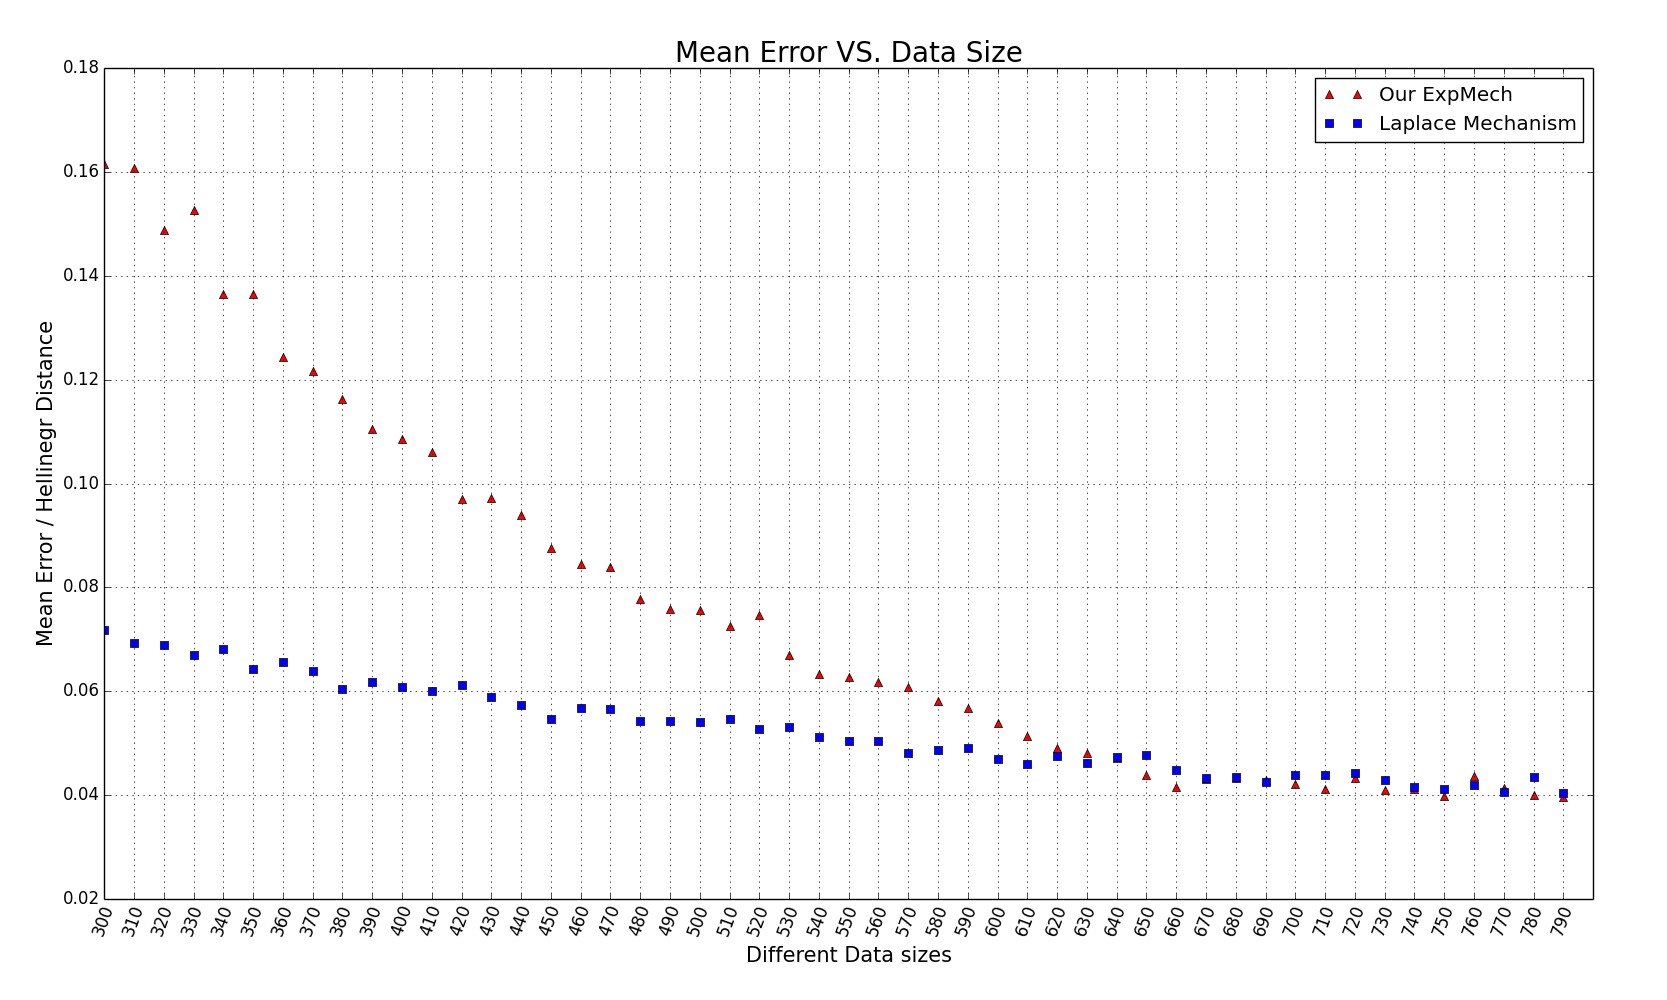
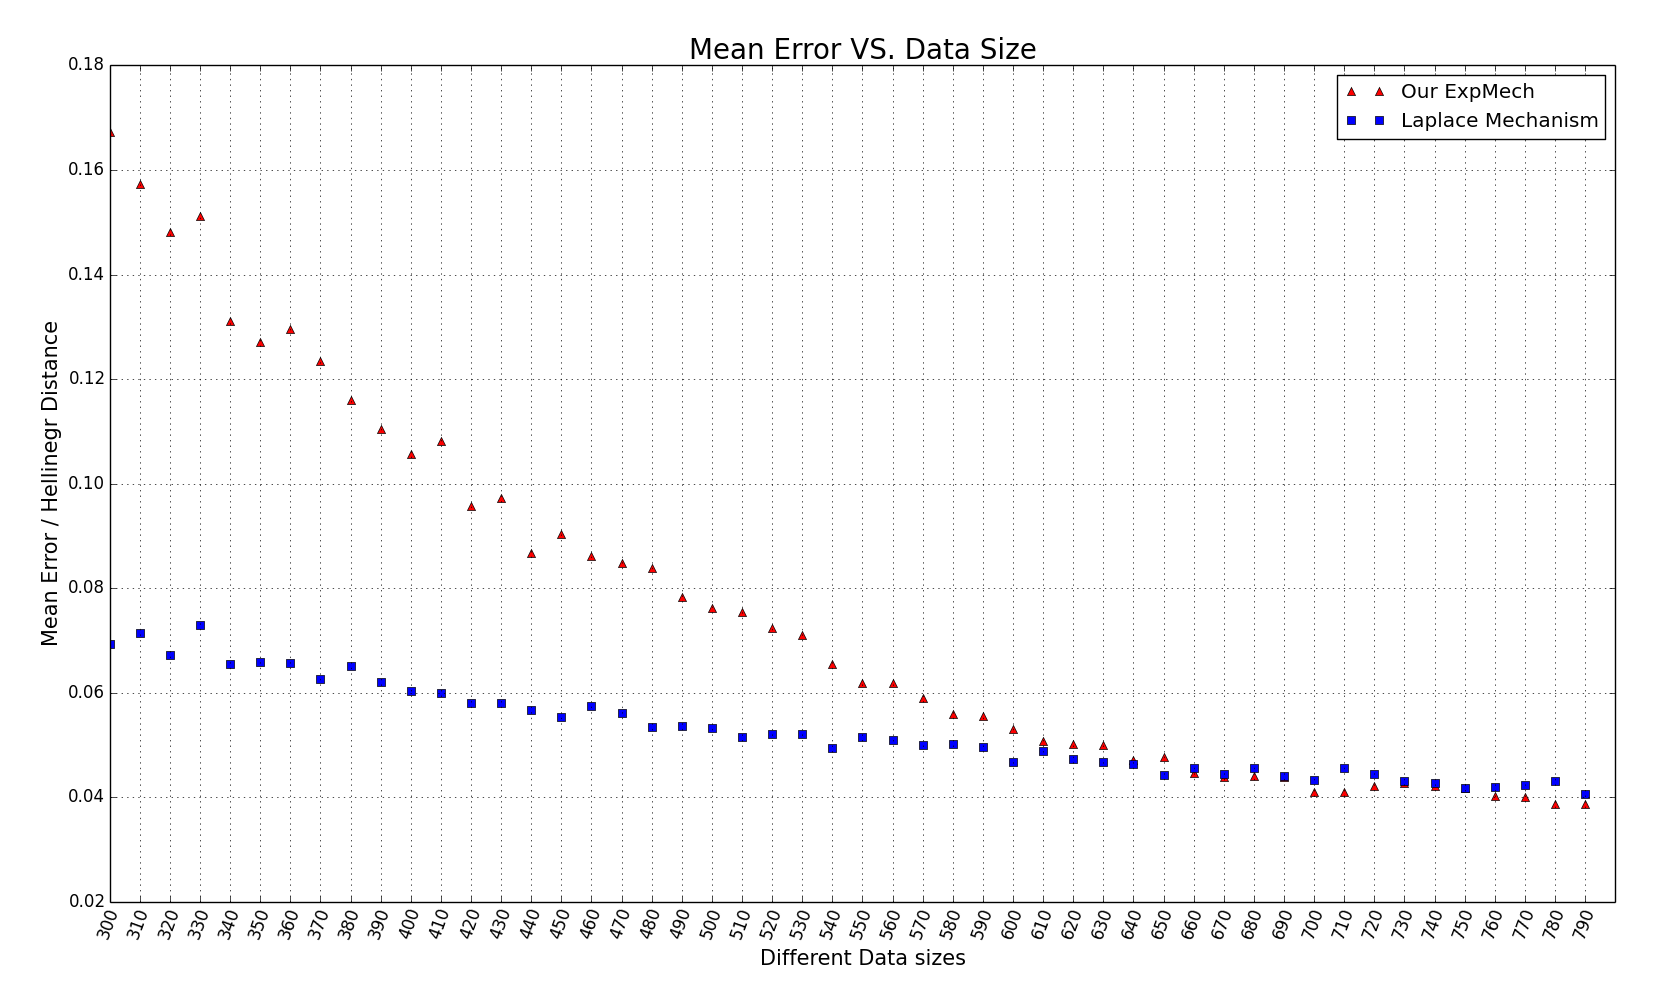
update figures

diff --git a/dp_bayesian_inference_model_with_dirichlet_prior_epsilon_study.py b/dp_bayesian_inference_model_with_dirichlet_prior_epsilon_study.py
@@ -412,7 +412,7 @@ class BayesInferwithDirPrior(object):
 
 	def _laplace_noize_n(self):
 
-		self._laplaced_posterior = Dir([alpha + math.floor(numpy.random.laplace(0, 2.0/self._epsilon)) for alpha in self._posterior._alphas])
+		self._laplaced_posterior = Dir([alpha + math.floor(numpy.random.laplace(0, 1.0/self._epsilon)) for alpha in self._posterior._alphas])
 
 	def _laplace_noize_navie(self):
 		t = numpy.random.laplace(0, 1.0/self._epsilon)
@@ -884,7 +884,7 @@ def accuracy_VS_datasize(epsilon,delta,prior,observations,datasizes):
 	for observation in observations:
 		Bayesian_Model = BayesInferwithDirPrior(prior, sum(observation), epsilon, delta)
 		Bayesian_Model._set_observation(observation)
-		Bayesian_Model._experiments(2000)
+		Bayesian_Model._experiments(10000)
 		data.append(Bayesian_Model._accuracy[Bayesian_Model._keys[3]])
 		data.append(Bayesian_Model._accuracy[Bayesian_Model._keys[0]])
 		mean_error[0].append(Bayesian_Model._accuracy_mean[Bayesian_Model._keys[3]])
@@ -1051,11 +1051,11 @@ if __name__ == "__main__":
 	x2 = [2,18]
 	observation = [5,5,5]
 	epsilons = numpy.arange(0.1, 2, 0.1)
-	datasizes = [i*100 for i in range(30,80)]#[300] #[8,12,18,24,30,36,42,44,46,48]#,50,52,54,56,58,60,62,64,66,68,70,72,74,76,78,80]
-	percentage = [0.5,0.5]
+	datasizes = [i*200 for i in range(70,100)]#[300] #[8,12,18,24,30,36,42,44,46,48]#,50,52,54,56,58,60,62,64,66,68,70,72,74,76,78,80]
+	percentage = [0.1,0.9]
 	datasets = gen_datasets(percentage, datasizes)
 	priors = [Dir([4*i,4*i,4*i]) for i in range(5,20)]
-	# print Optimized_Hellinger_Distance_Dir(Dir([250,250]),Dir([249, 249]))
+	# print opt_hellinger2([20000,20000],[19999, 19999])
 	# accuracy_VS_dimension(sample_sizes, epsilon, delta)
 	# accuracy_VS_prior_mean(sample_size,epsilon,delta,priors,observations)
 	# means = [[(i/10.0), (1 - i/10.0)] for i in range(1,10)]
